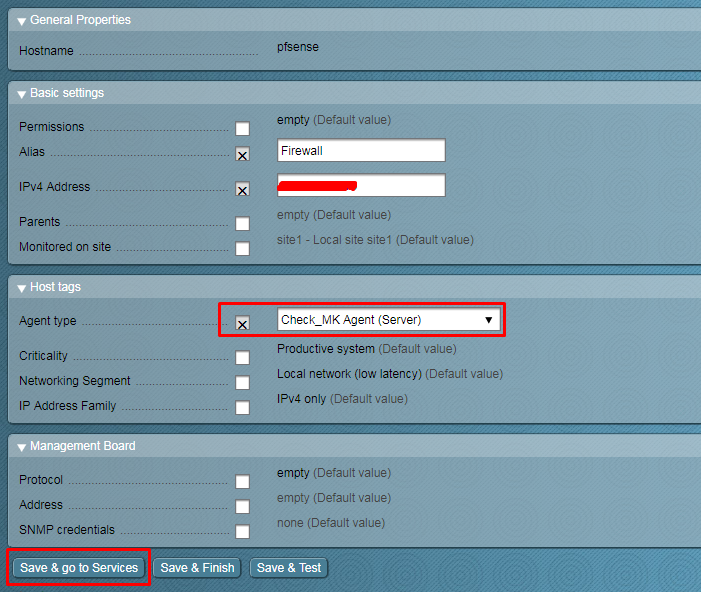
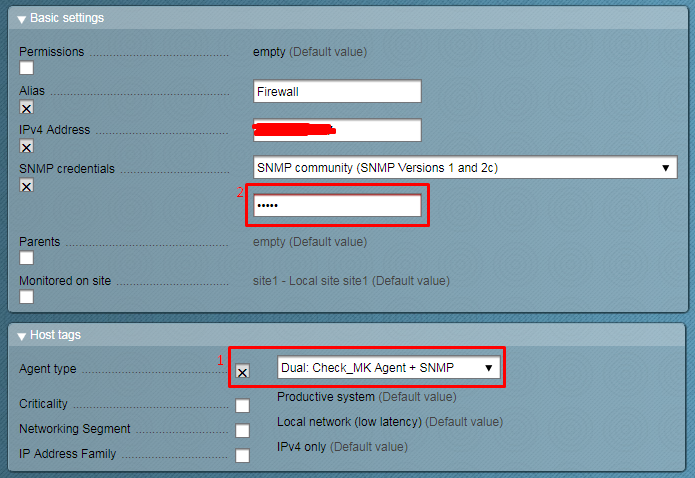
Cập nhật phần SNMP

diff --git a/docs/Giam-sat-pfsense-qua-check_mk.md b/docs/Giam-sat-pfsense-qua-check_mk.md
@@ -4,8 +4,9 @@
 
 - [1. Giới thiệu](#1)
 - [2. Cài đặt check_mk_agent lên pfSense](#2)
-- [3. Thêm pfSense vào check_mk](#3)
-- [4. Tham khảo](#4)
+- [3. Cấu hình SNMP trên pfSense](#3)
+- [4. Thêm pfSense vào check_mk](#4)
+- [5. Tham khảo](#5)
 
 <a name="1" />
 	
@@ -132,22 +133,46 @@ Sử dụng SSH để điều khiển pfSense.
 
 	**Chú ý**: Mở port **6556** của FW để cho phép check_mk có thể truy cập để lấy dữ liệu.
 
-	
 <a name="3" />
 
-### 3. Thêm pfSense vào check_mk
+### 3. Kích hoạt SNMP trên pfSense
+
+- **Bước 1**: Trên Dashboard chọn **Services > SNMP **
+
+	<img src="/images/snmp1.png" />
+	
+- **Bước 2**: Khai báo thông tin
+
+	<img src="/images/snmp2.png" />
+	
+	**Giải thích:**
+	
+	- `(1)` Kích hoạt SNMP
+	- `(2)` Khai báo **System Location** (Tùy chọn)
+	- `(3)` Khai báo **System Contact** (Tùy chọn)
+	- `(4)` Khai báo **Community String** - QUAN TRỌNG: Chuỗi này sẽ được sử dụng để xác thực ở `check-mk`.
+
+- **Bước 3**: Lưu lại cấu hình
+
+	<img src="/images/snmp3.png" />
+	
+	<img src="/images/snmp4.png" />
+	
+<a name="4" />
+
+### 4. Thêm pfSense vào check_mk
 
 Bây giờ, chúng ta đăng nhập vào `check-mk` và thêm một host mới. 
 
 <img src="/images/monitor-5.png" />
 
-Chọn *Agent type* là **Check_MK Agent (Server)** sau đó bấm **Save & go to Services**
+Chọn *Agent type* là **Dual: Check_MK Agent + SNMP** sau đó bấm **Save & go to Services**
 
 <img src="/images/monitor-6.png" />
 
-<a name="4" />
+<a name="5" />
 
-### 4. Tham khảo
+### 5. Tham khảo
 
 - https://forum.pfsense.org/index.php?PHPSESSID=1envonkn9s2qss1gg8fb3kd7h2&topic=111517.0
 - https://openschoolsolutions.org/pfsense-monitoring-check-mk/
